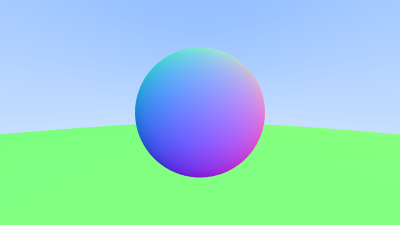
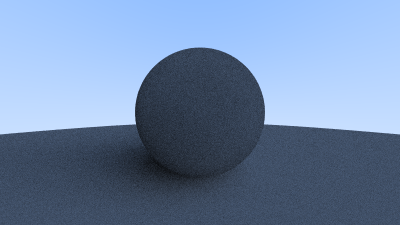
basic random diffuse mat

diff --git a/src/lib/camera.rs b/src/lib/camera.rs
@@ -106,7 +106,7 @@ impl Camera {
 
       for i in 0..=self.samples_per_pixel {
         let r = self.get_ray(x, y);
-        pixel_colour = pixel_colour + r.ray_colour(world);
+        pixel_colour = pixel_colour + Camera::ray_colour(&r, world);
       }
 
       let (r, g, b) = colour::get_colour(&(pixel_colour * self.pixel_samples_scale));
@@ -136,7 +136,7 @@ impl Camera {
     vector::Vector::new(utility::random_df() - 0.5, utility::random_df() - 0.5, 0.0)
   }
 
-  pub fn ray_colour(r: &ray::Ray, world: &dyn hittable::Hittable) -> (u8, u8, u8) {
+  pub fn ray_colour(r: &ray::Ray, world: &dyn hittable::Hittable) -> vector::Vector {
     let mut hit_rec = hittable::HitRecord::new(
       vector::Vector::new(0.0, 0.0, 0.0),
       vector::Vector::new(0.0, 0.0, 0.0),
@@ -148,13 +148,13 @@ impl Camera {
       interval::Interval::new(0.0, utility::INFINITY),
       &mut hit_rec,
     ) {
-      return colour::get_colour(&((hit_rec.normal + vector::Vector::new(1.0, 1.0, 1.0)) * 0.5));
+      let direction = hit_rec.normal.random_on_hemisphere();
+      return Camera::ray_colour(&ray::Ray::new(hit_rec.point, direction), world) * 0.5;
     } else {
       let unit_dir = vector::Vector::unit_vector(&r.dir);
       let a = (unit_dir.y + 1.0) * 0.5;
-      colour::get_colour(&{
-        vector::Vector::new(1.0, 1.0, 1.0) * (1.0 - a) + vector::Vector::new(0.5, 0.7, 1.0) * a
-      })
+
+      vector::Vector::new(1.0, 1.0, 1.0) * (1.0 - a) + vector::Vector::new(0.5, 0.7, 1.0) * a
     }
   }
 }

diff --git a/src/lib/vector.rs b/src/lib/vector.rs
@@ -1,3 +1,4 @@
+use crate::lib::utility;
 use std::ops;
 
 #[derive(Copy, Clone, PartialEq, Debug)]
@@ -30,6 +31,41 @@ impl Vector {
 
   pub fn unit_vector(&self) -> Vector {
     *self / self.length()
+  }
+
+  pub fn random_unit_vector() -> Vector {
+    loop {
+      let p = Vector::random_df();
+      let lensq = p.length_squared();
+      if 1e-160 < lensq && lensq <= 1.0 {
+        return p / lensq.sqrt();
+      }
+    }
+  }
+
+  pub fn random_on_hemisphere(&self) -> Vector {
+    let on_unit_sphere = Vector::random_unit_vector();
+    if (on_unit_sphere.dot(self) > 0.0) {
+      return on_unit_sphere;
+    } else {
+      return on_unit_sphere * -1.0;
+    }
+  }
+
+  pub fn random_df() -> Vector {
+    Vector {
+      x: utility::random_df(),
+      y: utility::random_df(),
+      z: utility::random_df(),
+    }
+  }
+
+  pub fn random(min: f64, max: f64) -> Vector {
+    Vector {
+      x: utility::random(min, max),
+      y: utility::random(min, max),
+      z: utility::random(min, max),
+    }
   }
 }
 

diff --git a/src/lib/ray.rs b/src/lib/ray.rs
@@ -14,27 +14,6 @@ impl Ray {
     self.orig + (self.dir * t)
   }
 
-  pub fn ray_colour(&self, world: &dyn hittable::Hittable) -> vector::Vector {
-    let mut hit_rec = hittable::HitRecord::new(
-      vector::Vector::new(0.0, 0.0, 0.0),
-      vector::Vector::new(0.0, 0.0, 0.0),
-      0.0,
-      false,
-    );
-    if world.hit(
-      self,
-      interval::Interval::new(0.0, utility::INFINITY),
-      &mut hit_rec,
-    ) {
-      return (hit_rec.normal + vector::Vector::new(1.0, 1.0, 1.0)) * 0.5;
-    } else {
-      let unit_dir = vector::Vector::unit_vector(&self.dir);
-      let a = (unit_dir.y + 1.0) * 0.5;
-
-      vector::Vector::new(1.0, 1.0, 1.0) * (1.0 - a) + vector::Vector::new(0.5, 0.7, 1.0) * a
-    }
-  }
-
   pub fn hit_sphere(&self, center: vector::Vector, radius: f64) -> f64 {
     let oc = center - self.orig;
     let a = self.dir.length_squared();
